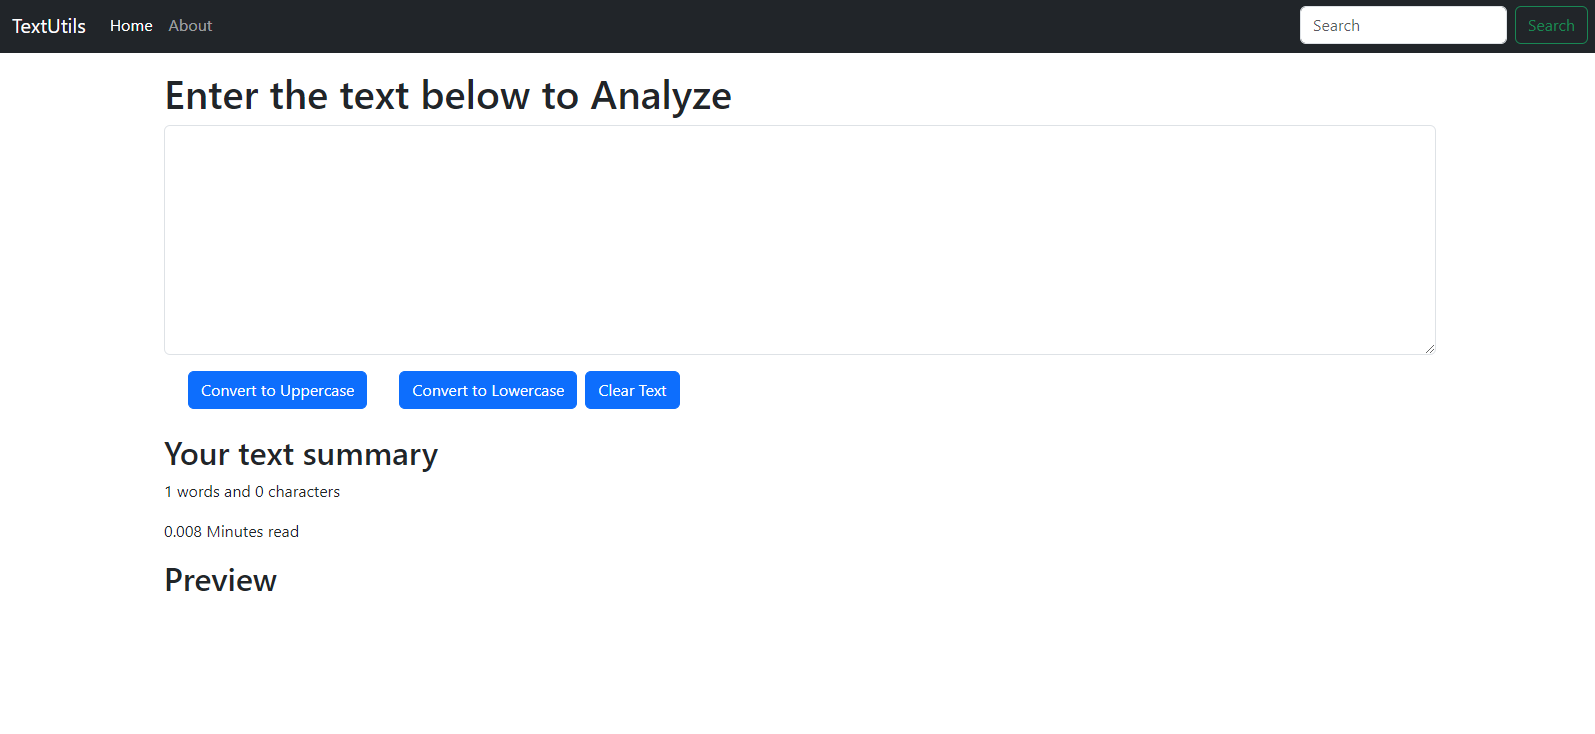
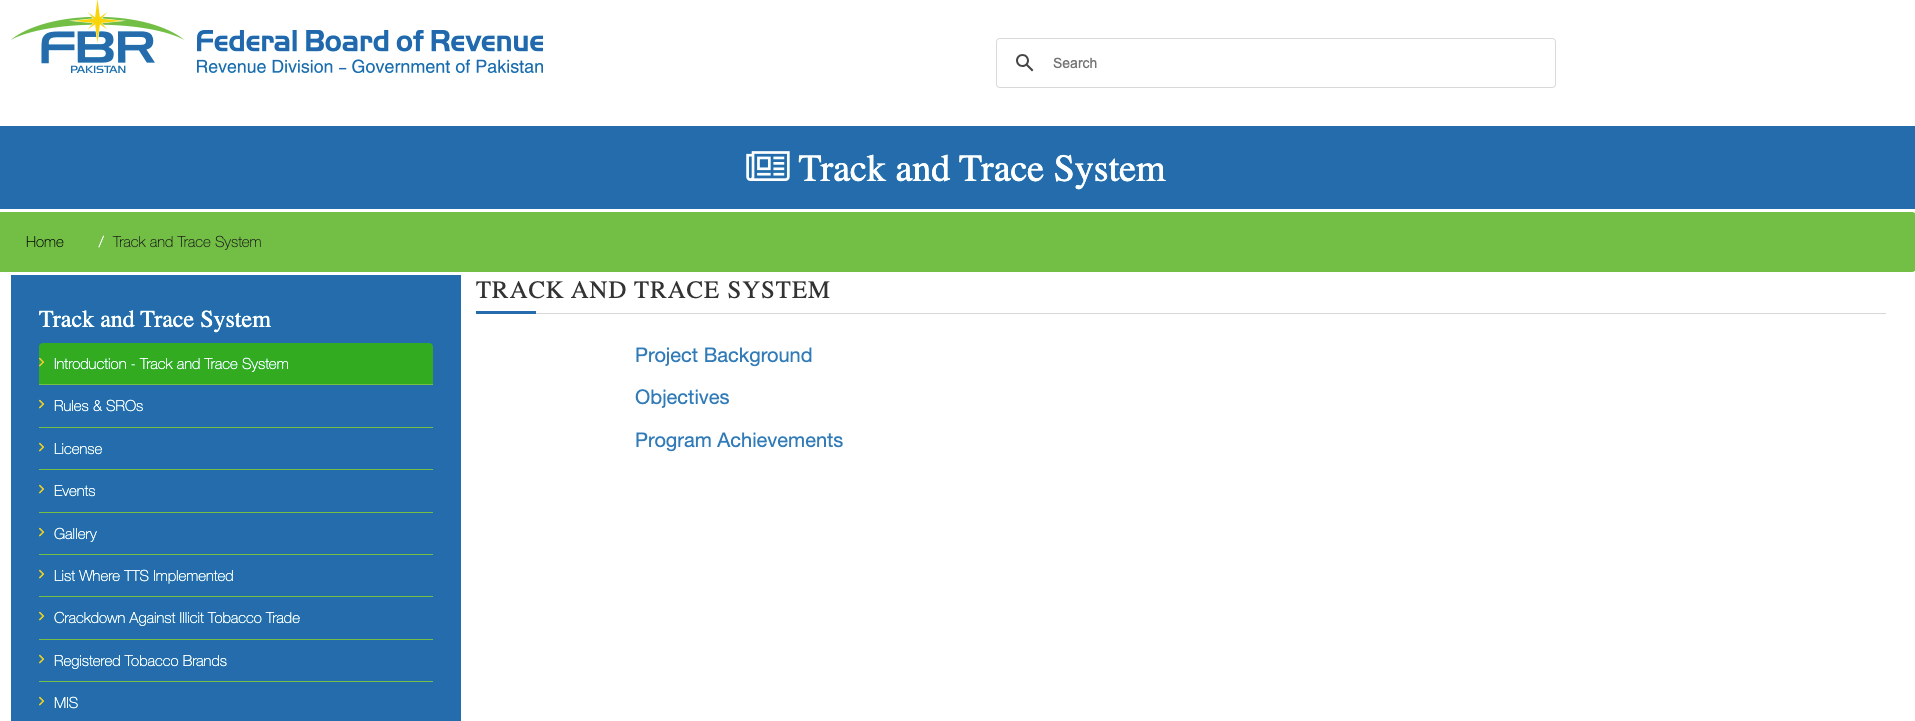
Add project details and website links

diff --git a/src/constants/constants.js b/src/constants/constants.js
@@ -5,7 +5,7 @@ export const projects = [
     image: '/images/8.png',
     tags: ['Budget Control', 'Forecasting', 'PMO'],
     details: 'mailto:harisarshad235@gmail.com?subject=Track%20%26%20Trace%20System',
-    website: '',
+    website: 'https://www.fbr.gov.pk/introduction-track-and-trace/152962/152963',
     id: 0,
   },
   {
